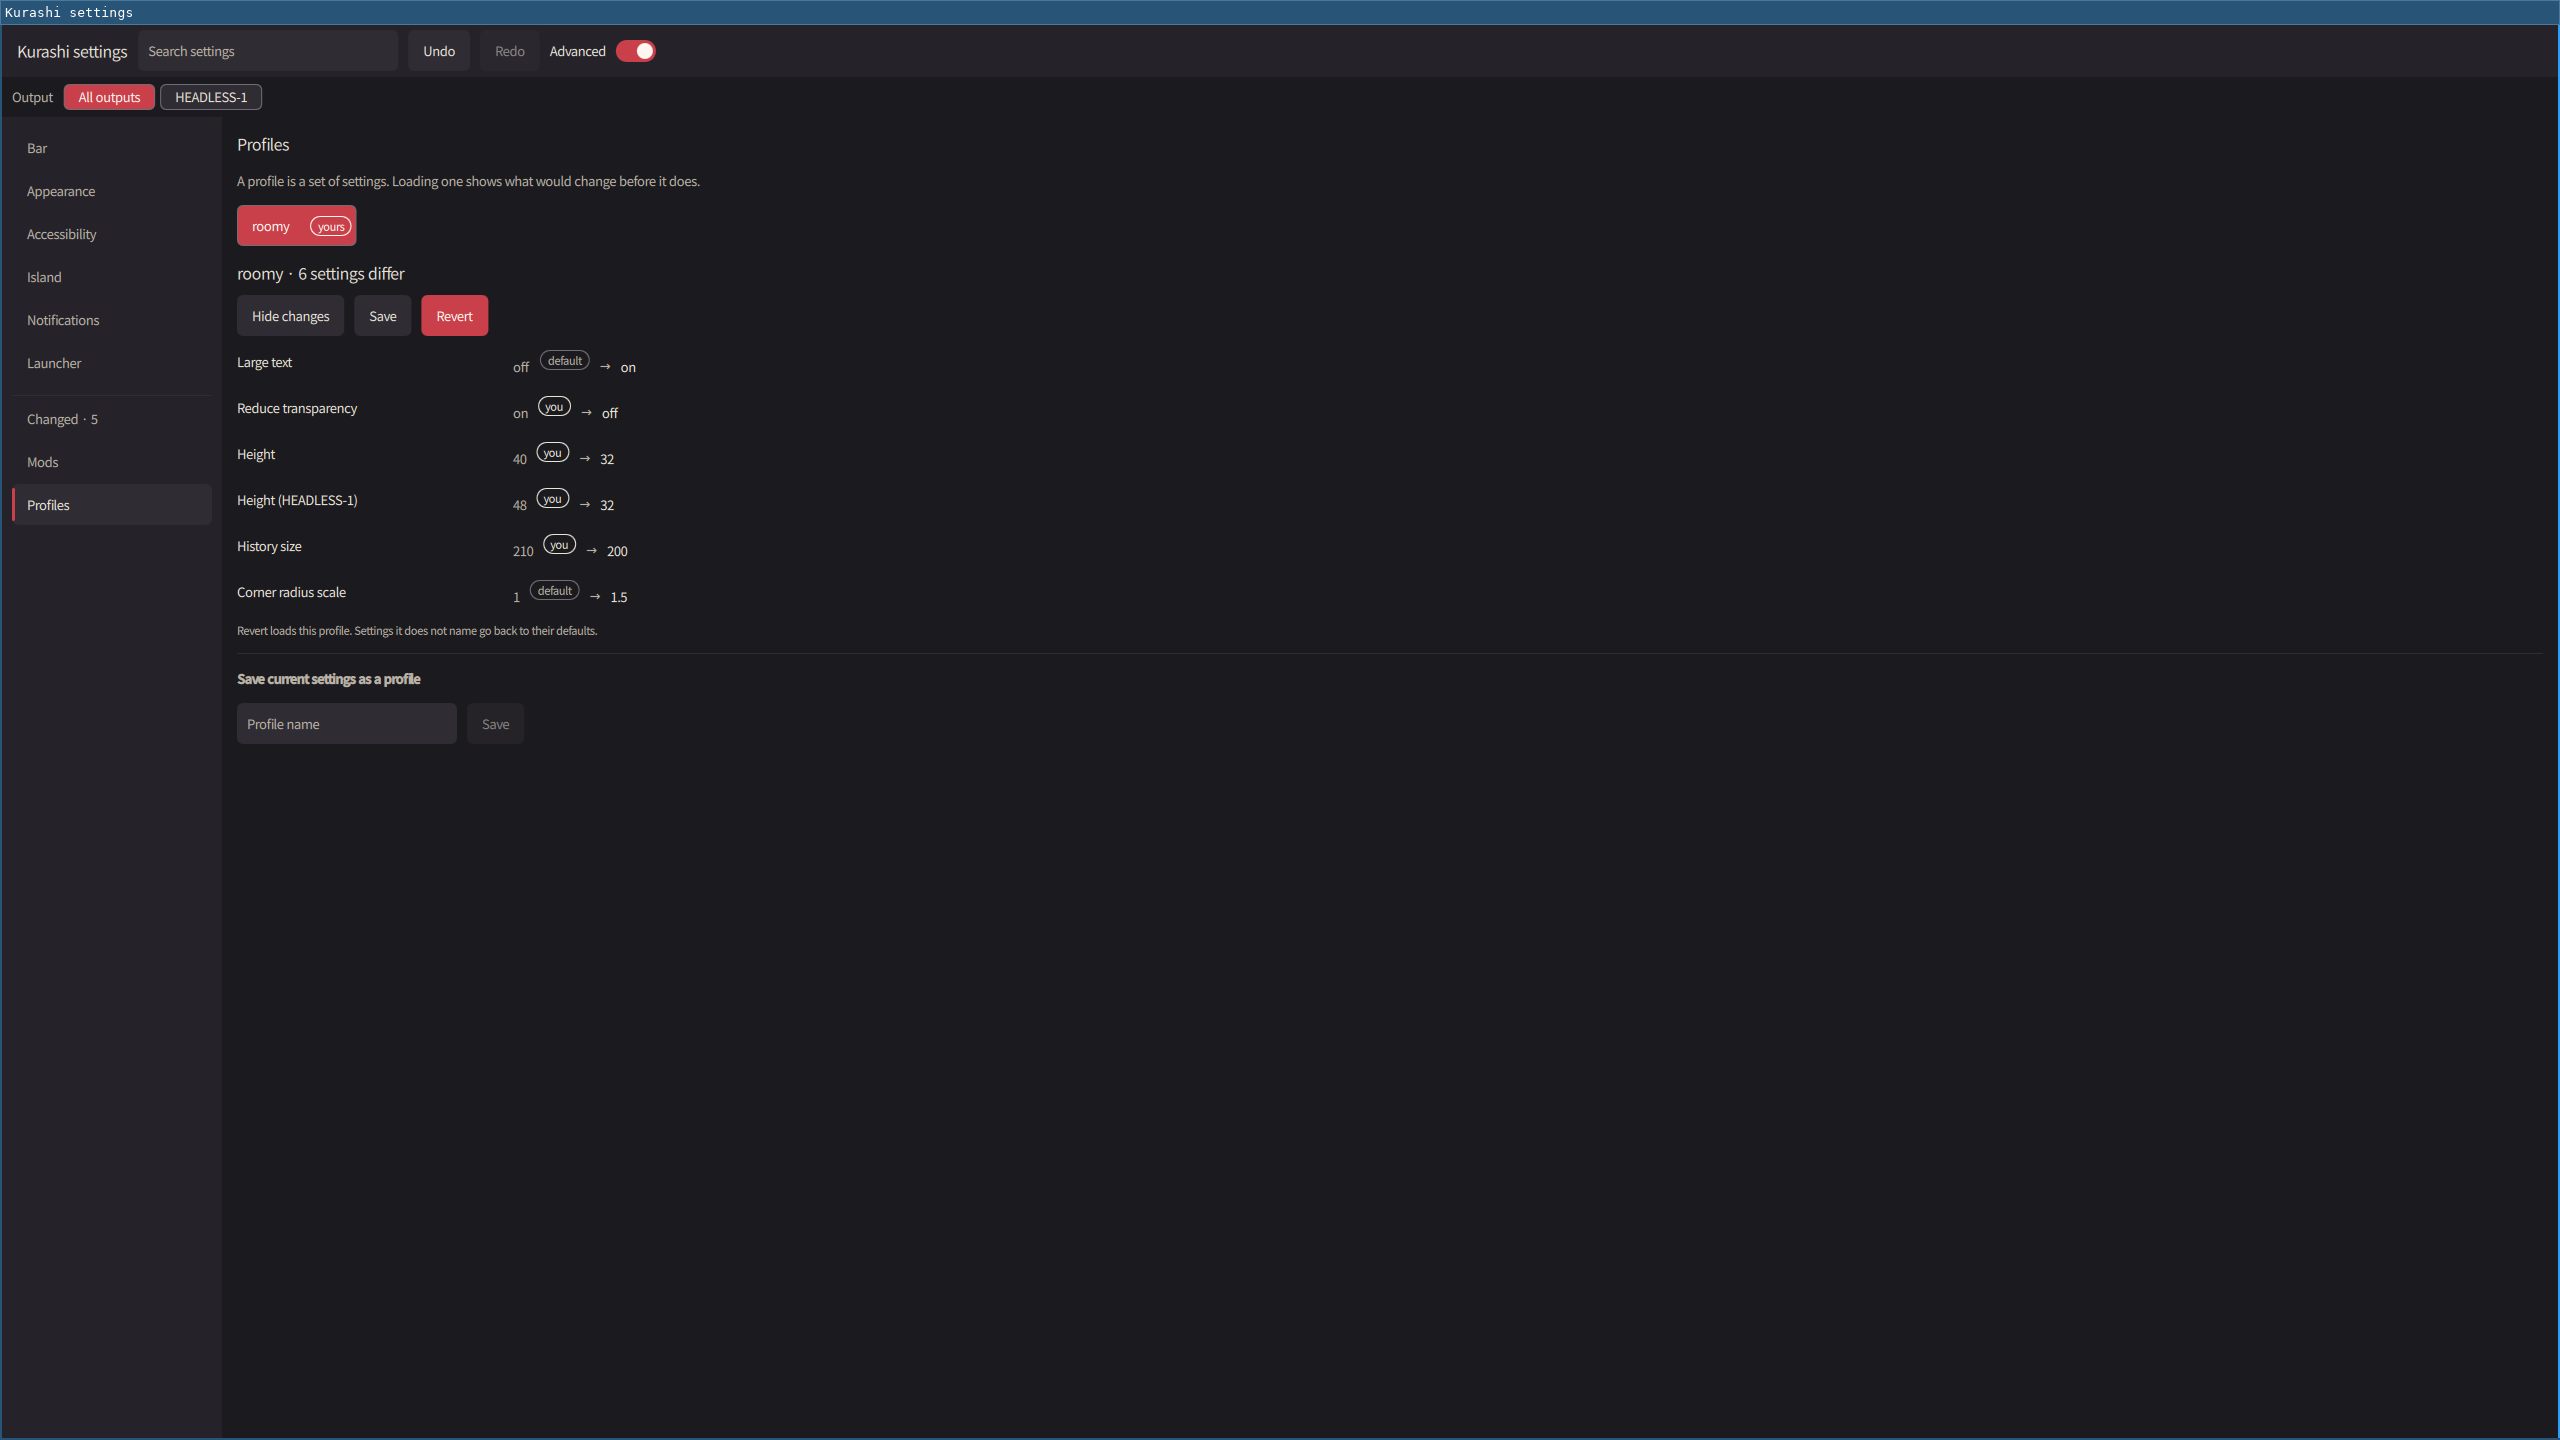
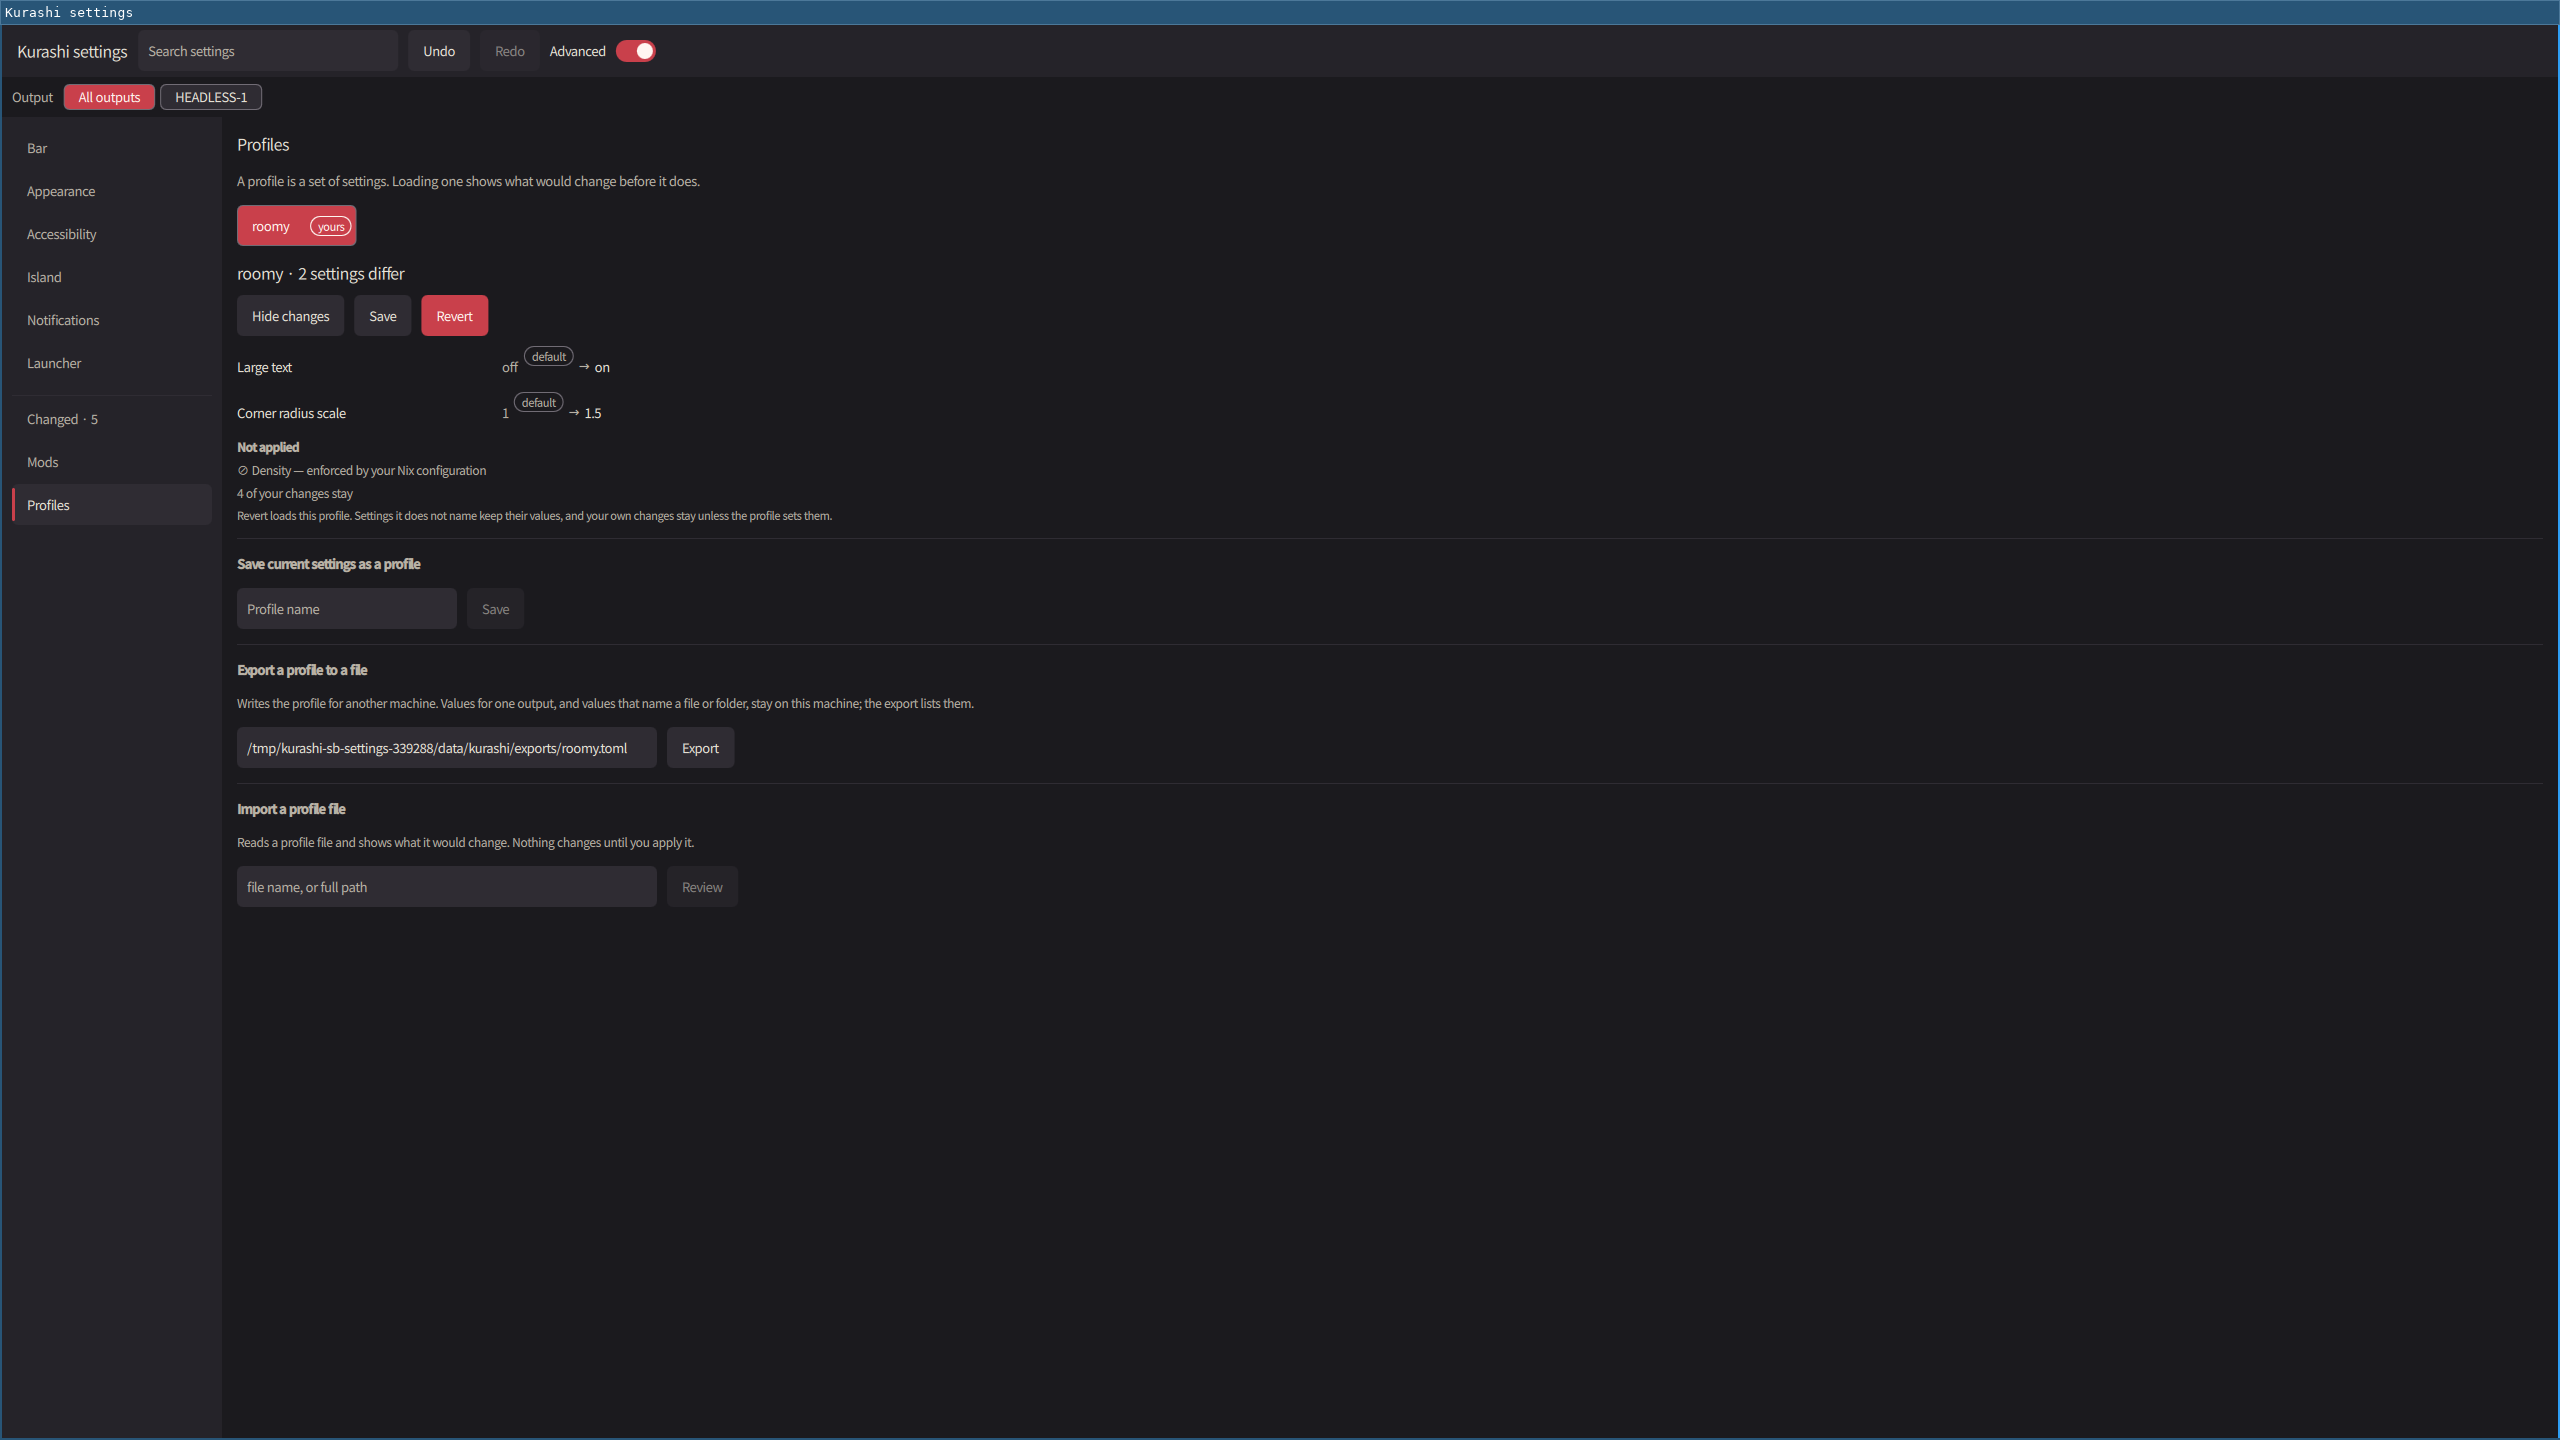
fix(settings): profile review counts changed values and shows its buttons
The header counts the settings whose value changes. A line that only moves a setting to this profile (same value, now set by it) is listed apart under its own heading, so a profile that matches the current values says so.

The import review is titled as the file, with the singular form for one setting, and the page scrolls to its Apply and Cancel when it opens. After an import, the selected profile's preview is read again.

Shots of the profile page regenerated by settings/test.sh; other pages' shots restored.

diff --git a/settings/pages/ProfilesPage.qml b/settings/pages/ProfilesPage.qml
@@ -2,6 +2,7 @@ import QtQuick
 import Quickshell
 import "../core"
 import "../components"
+import "../components/ProfileDiff.js" as ProfileDiff
 
 // Profiles (UX brief, settings 6). A profile is a set of settings with an origin (bundled, or yours). Loading one is an
 // overlay (B13): it changes the settings the profile sets and keeps every other change of yours. The review shows what
@@ -42,7 +43,8 @@ Flickable {
     property bool importFailed: false
     property var importHeld: []
 
-    readonly property int differ: diff ? diff.length : 0
+    // The header counts the settings whose value changes; a line that only moves a setting to this profile is no difference.
+    readonly property int differ: diff ? ProfileDiff.valueChanges(diff) : 0
     readonly property bool exists: selected !== "" && profiles.some(function (x) { return x.name === selected })
 
     contentWidth: width
@@ -173,8 +175,16 @@ Flickable {
             var d = m.data || ({})
             p.review = { name: d.name || "", path: path, entries: d.diff || [], held: d.not_applied || [],
                          kept: d.kept_user || 0, diagnostics: d.diagnostics || [] }
-            Qt.callLater(function () { applyBtn.forceActiveFocus() })
+            // The review sits below a long load preview: the page scrolls to its buttons, which take the focus.
+            Qt.callLater(function () { applyBtn.forceActiveFocus(); p.reveal(reviewButtons) })
         })
+    }
+    // Scrolls the least that brings the item into view (the focus can sit below the fold otherwise).
+    function reveal(item) {
+        var top = item.mapToItem(p.contentItem, 0, 0).y
+        var bottom = top + item.height
+        if (top < p.contentY) p.contentY = Math.max(0, top - Theme.pad)
+        else if (bottom > p.contentY + p.height) p.contentY = Math.min(bottom - p.height + Theme.pad, p.contentHeight - p.height)
     }
     // Loads the reviewed file as one undoable change (profile.import with apply).
     function applyReview() {
@@ -189,17 +199,19 @@ Flickable {
                 p.importFailed = false
                 p.importMsg = I18n.fmt("settings.ui.import_done", { name: d.name || r.name, n: d.kept_user || 0 })
                 p.importHeld = d.not_applied || []
+                // The apply changed the settings: the selected profile's preview is read again.
+                if (p.selected !== "") p.preview(p.selected)
             } else {
                 p.importFailed = true
                 p.importMsg = p.failure(m, "settings.err.profile_import")
             }
-            Qt.callLater(function () { importField.focusInput() })
+            Qt.callLater(function () { importField.focusInput(); p.reveal(importField) })
         })
     }
     // Esc on the review, or Cancel: the review goes, nothing has changed, and the field takes the focus back.
     function cancelReview() {
         review = null
-        Qt.callLater(function () { importField.focusInput() })
+        Qt.callLater(function () { importField.focusInput(); p.reveal(importField) })
     }
     // Public so the test hook can drive the page like a click would.
     function select(name) { choose(name) }
@@ -310,7 +322,8 @@ Flickable {
                 font.pixelSize: Theme.fsTitle
                 font.family: Theme.fam(text, Theme.families)
                 text: p.diff === null ? p.selected
-                    : I18n.fmt(p.differ === 0 ? "settings.ui.profile_none_differ" : "settings.ui.profile_differ",
+                    : I18n.fmt(p.differ === 0 ? "settings.ui.profile_none_differ"
+                               : p.differ === 1 ? "settings.ui.profile_differ_one" : "settings.ui.profile_differ",
                                { name: p.selected, n: p.differ })
             }
             Row {
@@ -551,8 +564,9 @@ Flickable {
                 font.pixelSize: Theme.fs
                 font.bold: true
                 font.family: Theme.fam(text, Theme.families)
-                text: p.review ? I18n.fmt("settings.ui.import_title",
-                                          { name: p.review.name, n: p.review.entries.length }) : ""
+                text: p.review ? I18n.fmt(ProfileDiff.valueChanges(p.review.entries) === 1
+                                          ? "settings.ui.import_title_one" : "settings.ui.import_title",
+                                          { name: p.review.name, n: ProfileDiff.valueChanges(p.review.entries) }) : ""
             }
             ProfileReview {
                 width: reviewBox.width
@@ -570,6 +584,7 @@ Flickable {
                 text: I18n.tr("settings.ui.import_keys")
             }
             Row {
+                id: reviewButtons
                 spacing: Theme.gap
                 Button {
                     id: applyBtn

diff --git a/settings/components/ProfileReview.qml b/settings/components/ProfileReview.qml
@@ -1,9 +1,11 @@
 import QtQuick
 import "../core"
+import "ProfileDiff.js" as ProfileDiff
 
-// What a profile would do (UX brief, settings 6), shared by the Revert preview and the import review: the changed
-// settings (ProfileDiffRow), the ones a forced layer holds back ("not applied", with the reason), how many of your own
-// changes stay, and what a file skipped. Every line is the daemon's answer; this view only lays it out.
+// What a profile would do (UX brief, settings 6), shared by the Revert preview and the import review: the settings whose
+// value changes (ProfileDiffRow), the ones that only move to the profile (same value, listed apart), the ones a forced
+// layer holds back ("not applied", with the reason), how many of your own changes stay, and what a file skipped. Every
+// line is the daemon's answer; this view only lays it out.
 Column {
     id: v
     property var entries: []
@@ -11,6 +13,8 @@ Column {
     property int kept: 0
     property var diagnostics: []
     spacing: Theme.gap / 2
+    readonly property var valueLines: entries.filter(ProfileDiff.valueDiffers)
+    readonly property var sameLines: entries.filter(function (e) { return !ProfileDiff.valueDiffers(e) })
 
     // "config.diag.<kind>" names what the file skipped. A message is shown only as a catalog key: the parser's own
     // English (a syntax error) never reaches the page (K27).
@@ -22,7 +26,7 @@ Column {
     }
 
     Text {
-        visible: v.entries.length === 0
+        visible: v.valueLines.length === 0
         width: v.width
         wrapMode: Text.WordWrap
         color: Theme.dim
@@ -31,7 +35,25 @@ Column {
         text: I18n.tr("settings.ui.no_changes")
     }
     Repeater {
-        model: v.entries
+        model: v.valueLines
+        delegate: ProfileDiffRow {
+            required property var modelData
+            width: v.width
+            entry: modelData
+        }
+    }
+    Text {
+        visible: v.sameLines.length > 0
+        width: v.width
+        wrapMode: Text.WordWrap
+        color: Theme.dim
+        font.pixelSize: Theme.fs - 1
+        font.bold: true
+        font.family: Theme.fam(text, Theme.families)
+        text: I18n.tr("settings.ui.profile_same_head")
+    }
+    Repeater {
+        model: v.sameLines
         delegate: ProfileDiffRow {
             required property var modelData
             width: v.width

diff --git a/settings/components/ProfileDiff.js b/settings/components/ProfileDiff.js
@@ -1,0 +1,13 @@
+.pragma library
+
+// The lines of a profile review, counted the way the page counts them: a line changes a value when the value before and
+// the value after differ. A line whose value stays the same only moves the setting to the profile (its layer changes),
+// and the page lists it apart. The daemon decides what the review holds; this only compares its two values.
+
+function valueDiffers(e) {
+    return JSON.stringify(e.before ? e.before.value : null) !== JSON.stringify(e.after ? e.after.value : null)
+}
+
+function valueChanges(entries) {
+    return (entries || []).filter(valueDiffers).length
+}
